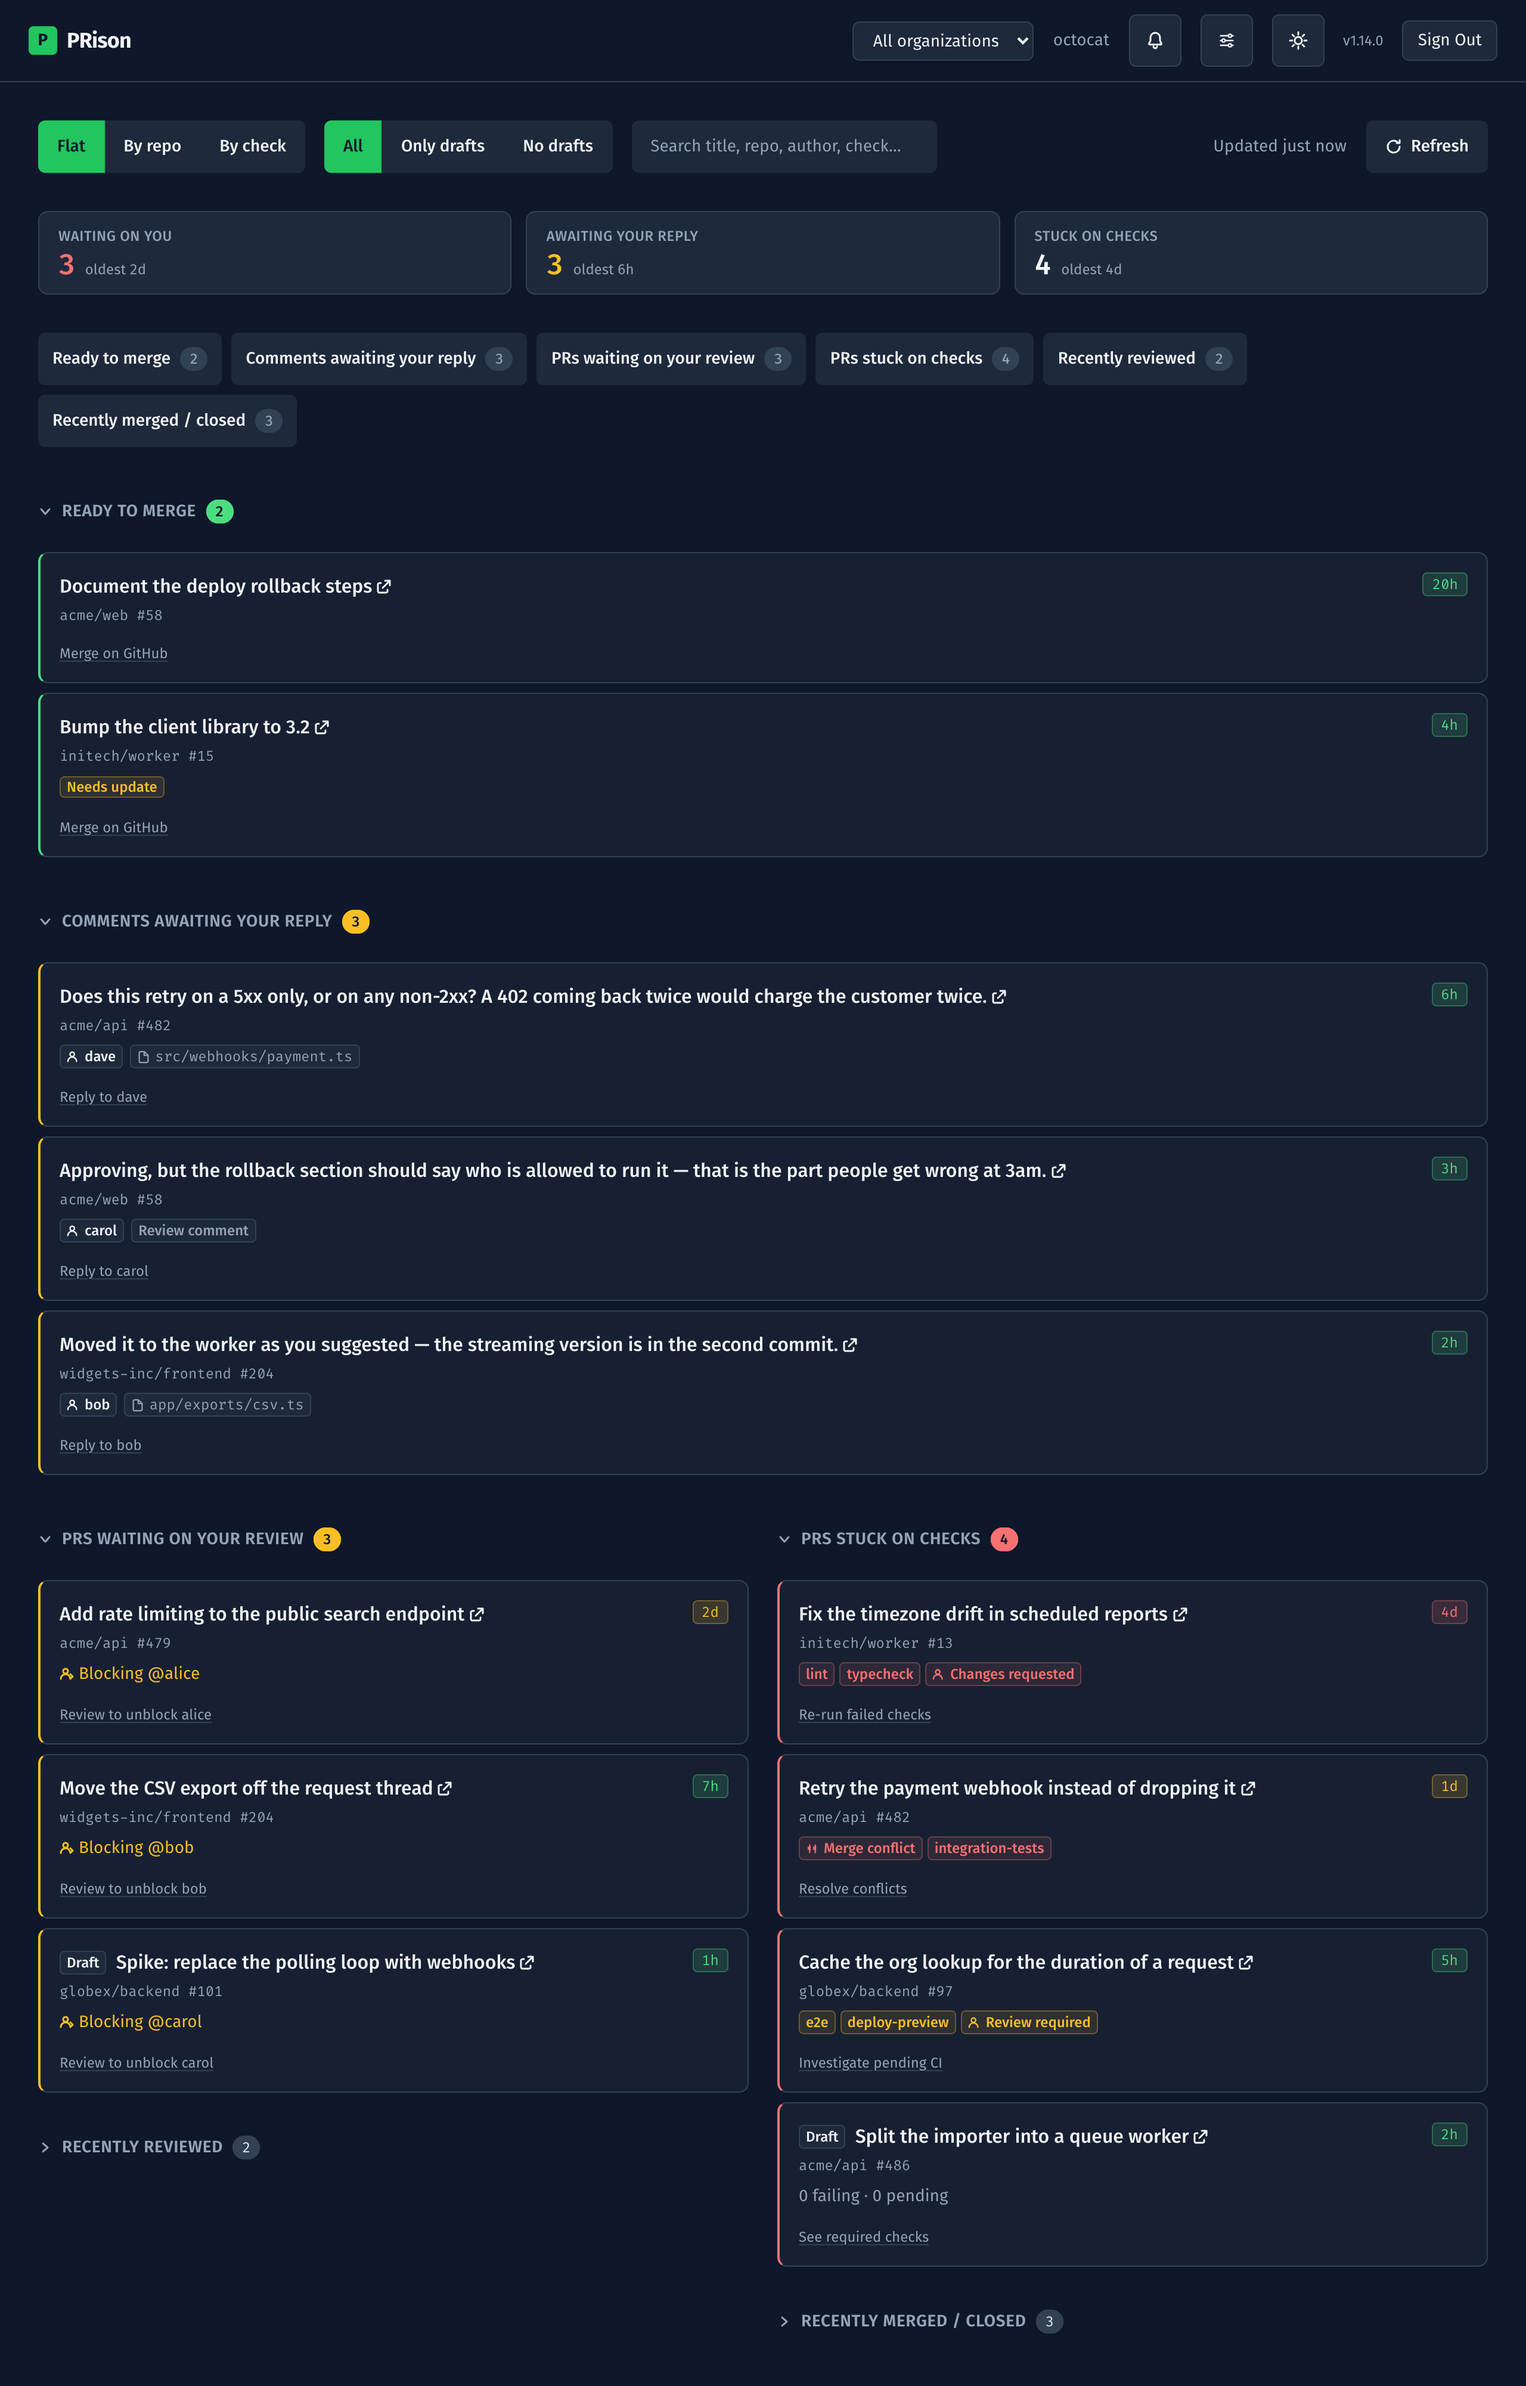
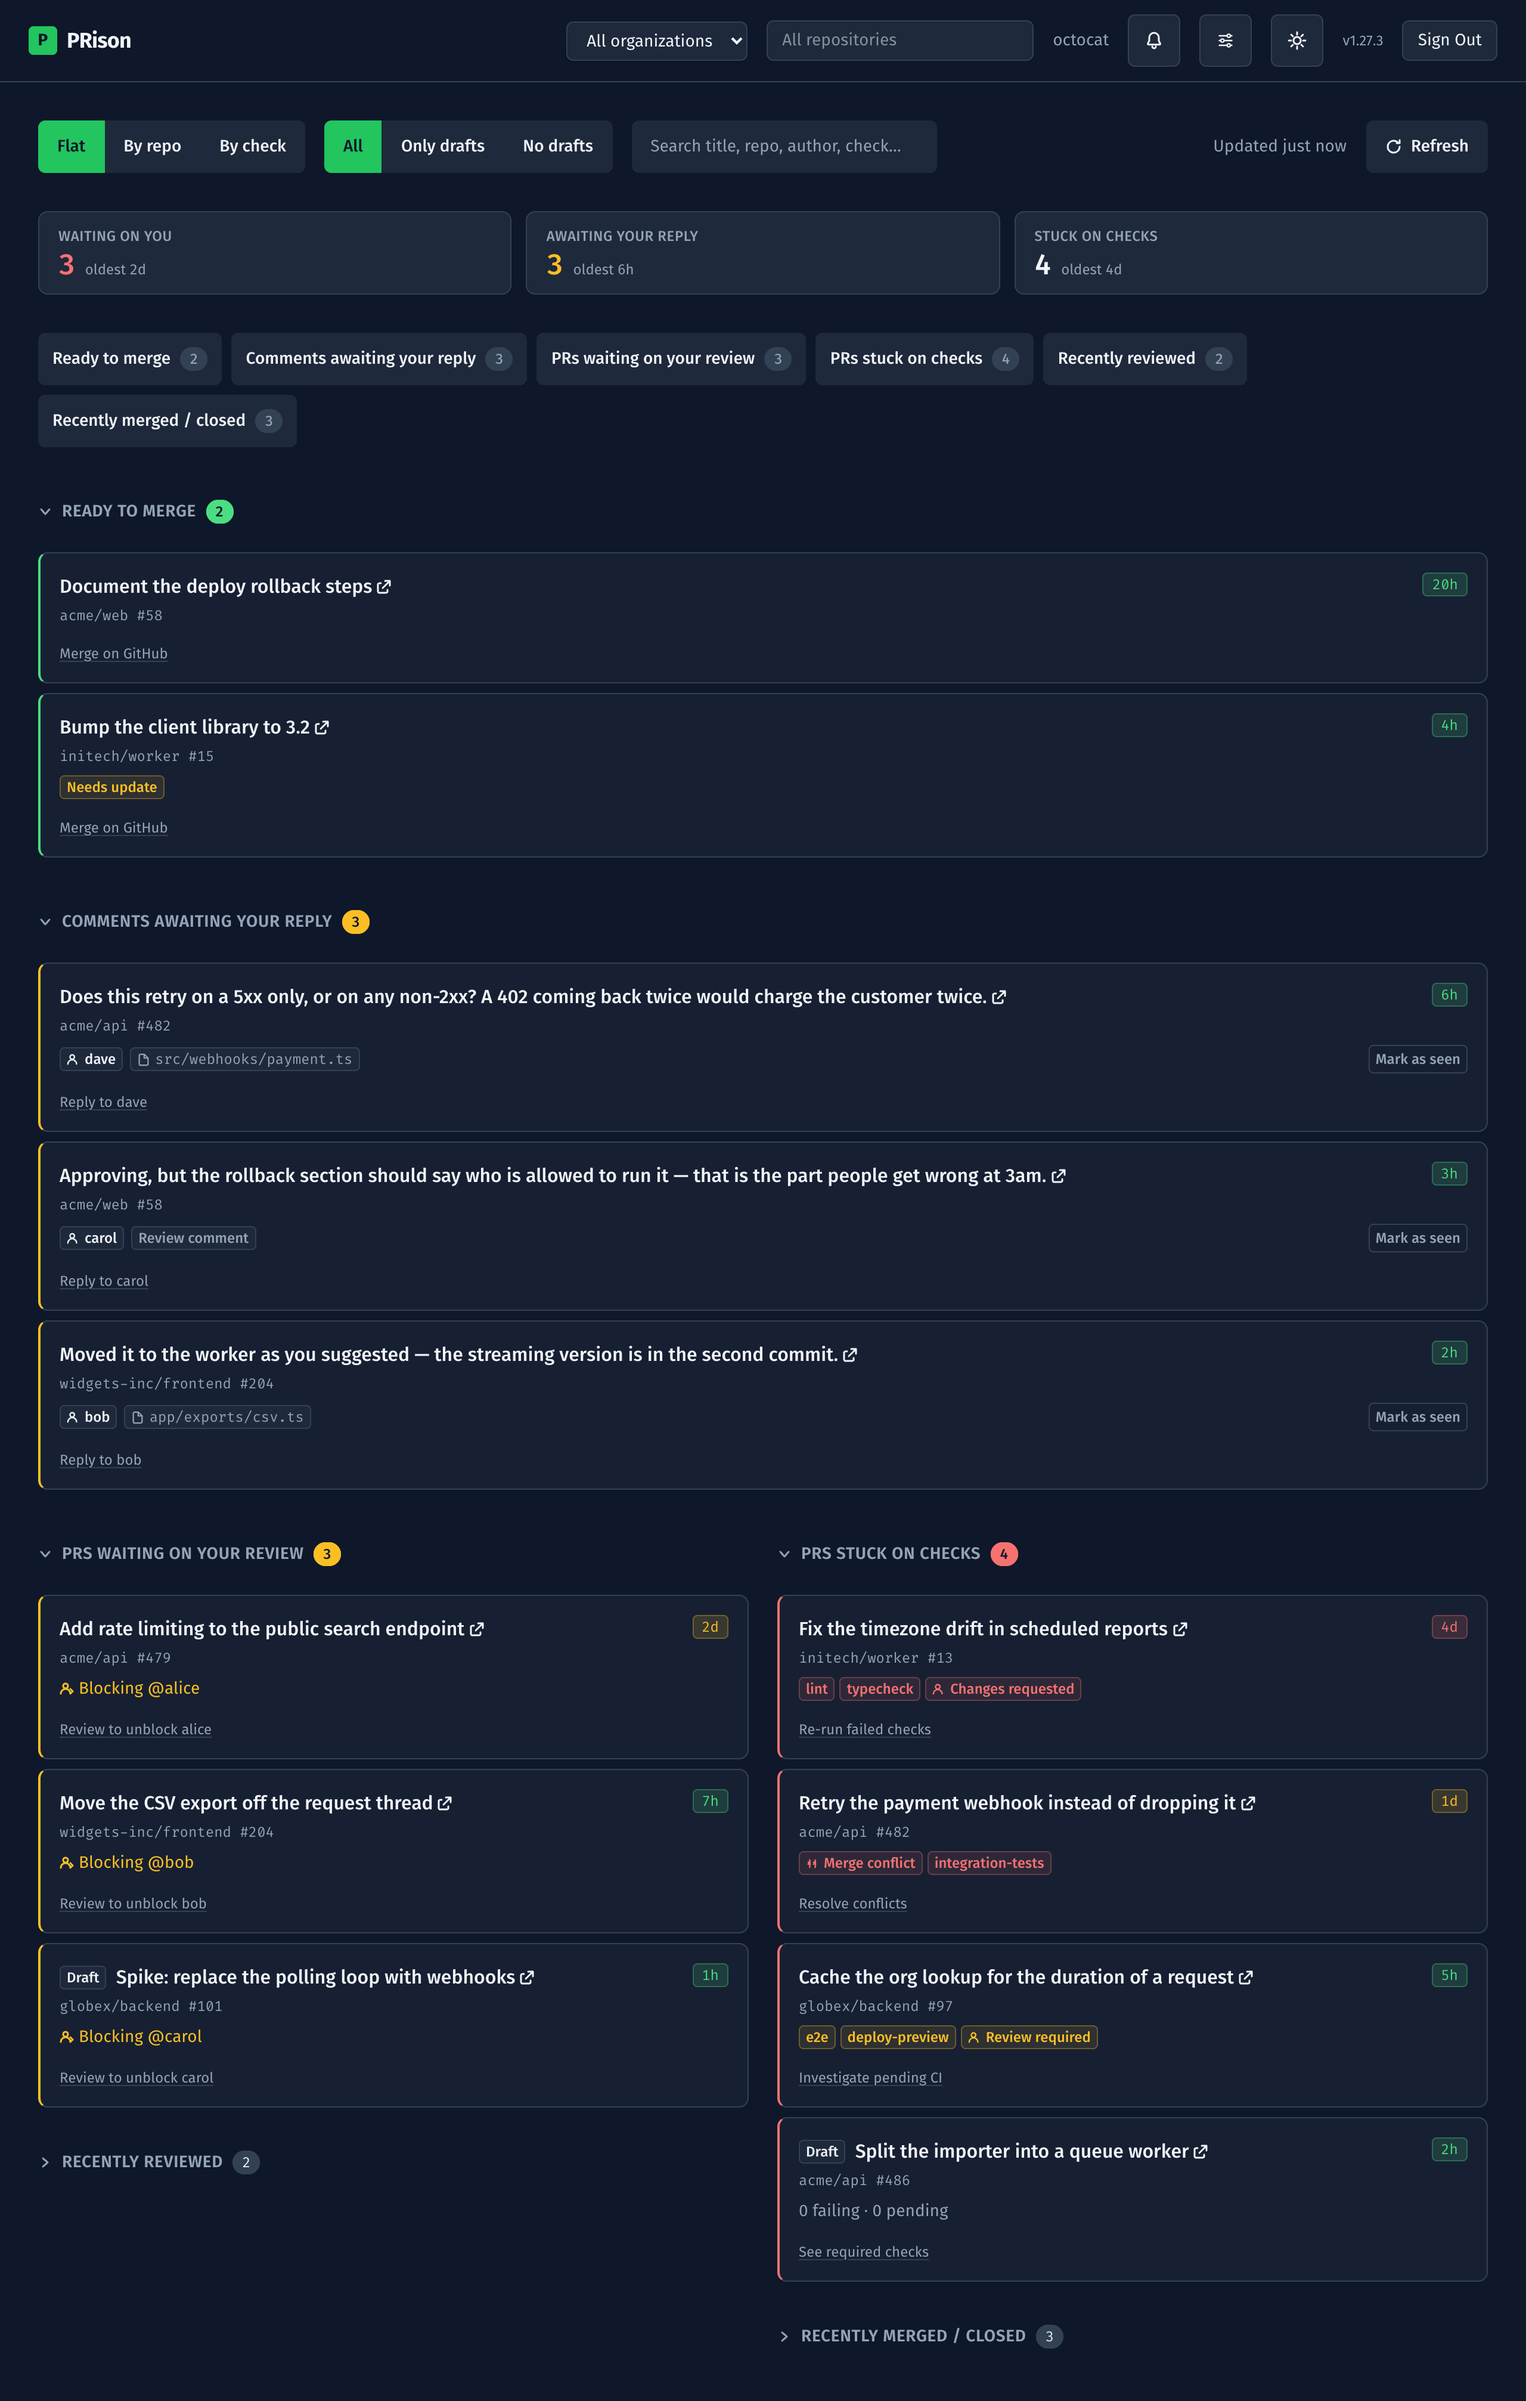
feat: mark a comment awaiting your reply as seen (#108)
* feat: mark a comment awaiting your reply as seen

A comment could only leave "Comments awaiting your reply" by answering it or
reacting on GitHub. Each row now has a "Mark as seen" button that hides it
locally. The mark is keyed by the comment's commentedAt, so a newer reply on
the thread brings it back. Settings > Comments > "Hide comments I marked as
seen" shows the hidden ones again, each with an undo.

* test: assert a stale seen mark is ignored, not just outvoted

* refactor: make the hide-seen settings props required, like hideReacted

* fix: drop aria-pressed from the seen button, whose label already says its state

---------

diff --git a/components/Dashboard.tsx b/components/Dashboard.tsx
@@ -58,6 +58,7 @@ import {
   readyDespiteIgnored,
   readyFromStuck,
 } from "@/lib/ignored-checks";
+import { isSeen, parseSeen, type SeenComments } from "@/lib/seen-comments";
 import { CheckChip } from "./CheckChip";
 import {
   DEFAULT_POLL_INTERVAL_MS,
@@ -148,6 +149,10 @@ export function Dashboard({ orgs, login }: DashboardProps) {
   // Reacting with an emoji is how the user acknowledges a comment without replying,
   // so reacted threads are hidden by default; client-side to keep the toggle instant.
   const [hideReacted, setHideReacted] = useState(true);
+  // The same acknowledgement without leaving a trace on GitHub: marked on the
+  // board, kept in this browser. Hidden by default, like reacted threads.
+  const [seen, setSeen] = useState<SeenComments>({});
+  const [hideSeen, setHideSeen] = useState(true);
   const [groupBy, setGroupBy] = useState<"flat" | "repo" | "check">("flat");
   // Component state, never persisted — the rule the section folds follow: a
   // query that outlived the sitting would hide work tomorrow morning with no
@@ -486,6 +491,8 @@ export function Dashboard({ orgs, login }: DashboardProps) {
     const storedShowBots = localStorage.getItem("prison.showBots");
     const storedUpdateChecks = localStorage.getItem("prison.updateChecks");
     const storedHideReacted = localStorage.getItem("prison.hideReacted");
+    const storedSeen = localStorage.getItem("prison.seenComments");
+    const storedHideSeen = localStorage.getItem("prison.hideSeen");
     const storedGroupBy = localStorage.getItem("prison.groupBy");
     const storedAutoRefresh = localStorage.getItem("prison.autoRefresh");
     const storedPollInterval = localStorage.getItem("prison.pollInterval");
@@ -531,6 +538,10 @@ export function Dashboard({ orgs, login }: DashboardProps) {
       if (storedHideReacted === "false") {
         setHideReacted(false);
       }
+      if (storedHideSeen === "false") {
+        setHideSeen(false);
+      }
+      setSeen(parseSeen(storedSeen));
       if (storedGroupBy === "repo" || storedGroupBy === "check") {
         setGroupBy(storedGroupBy);
       }
@@ -577,6 +588,16 @@ export function Dashboard({ orgs, login }: DashboardProps) {
     if (!hydrated) return;
     localStorage.setItem("prison.hideReacted", String(hideReacted));
   }, [hideReacted, hydrated]);
+
+  useEffect(() => {
+    if (!hydrated) return;
+    localStorage.setItem("prison.hideSeen", String(hideSeen));
+  }, [hideSeen, hydrated]);
+
+  useEffect(() => {
+    if (!hydrated) return;
+    localStorage.setItem("prison.seenComments", JSON.stringify(seen));
+  }, [seen, hydrated]);
 
   useEffect(() => {
     if (!hydrated) return;
@@ -883,7 +904,8 @@ export function Dashboard({ orgs, login }: DashboardProps) {
         // filtered the PR out.
         (c.viewerStarted || visiblePrIds.has(c.prId)) &&
         (showBots || !c.isBot) &&
-        !(hideReacted && c.viewerReacted),
+        !(hideReacted && c.viewerReacted) &&
+        !(hideSeen && isSeen(c, seen)),
     ),
     (c) => c.commentedAt,
   );
@@ -1098,6 +1120,8 @@ export function Dashboard({ orgs, login }: DashboardProps) {
         onShowBotsChange={setShowBots}
         hideReacted={hideReacted}
         onHideReactedChange={setHideReacted}
+        hideSeen={hideSeen}
+        onHideSeenChange={setHideSeen}
         autoRefresh={autoRefresh}
         onAutoRefreshChange={handleAutoRefreshChange}
         pollInterval={pollInterval}
@@ -1465,6 +1489,20 @@ export function Dashboard({ orgs, login }: DashboardProps) {
                         {c.path}
                       </span>
                     )}
+                    <button
+                      type="button"
+                      onClick={() =>
+                        setSeen((prev) => {
+                          const next = { ...prev };
+                          if (isSeen(c, prev)) delete next[c.id];
+                          else next[c.id] = c.commentedAt;
+                          return next;
+                        })
+                      }
+                      className="ml-auto inline-flex min-h-[24px] cursor-pointer items-center rounded px-1.5 py-0.5 text-xs font-medium text-muted ring-1 ring-inset ring-border transition-colors hover:text-accent focus:outline-none focus-visible:ring-2 focus-visible:ring-accent"
+                    >
+                      {isSeen(c, seen) ? "Seen ✓ — undo" : "Mark as seen"}
+                    </button>
                   </span>
                 }
               />

diff --git a/components/Dashboard.test.tsx b/components/Dashboard.test.tsx
@@ -3086,6 +3086,50 @@ describe("Dashboard — comments awaiting your reply", () => {
     ).toBeInTheDocument();
   });
 
+  it("hides a comment marked as seen, keeps the mark, and reveals it for undo when the toggle is unchecked", async () => {
+    global.fetch = fetchWithComments([COMMENT]);
+    render(<Dashboard orgs={ORGS} login="testuser" />);
+    expect(
+      await screen.findByText("please fix the null check"),
+    ).toBeInTheDocument();
+
+    fireEvent.click(screen.getByRole("button", { name: "Mark as seen" }));
+    expect(
+      await screen.findByText(/no comments awaiting your reply/i),
+    ).toBeInTheDocument();
+    await waitFor(() =>
+      expect(
+        JSON.parse(localStorage.getItem("prison.seenComments") ?? "{}"),
+      ).toEqual({ t1: COMMENT.commentedAt }),
+    );
+
+    openSettings();
+    fireEvent.click(screen.getByLabelText(/hide comments i marked as seen/i));
+    expect(
+      await screen.findByText("please fix the null check"),
+    ).toBeInTheDocument();
+    fireEvent.click(screen.getByRole("button", { name: "Seen ✓ — undo" }));
+    await waitFor(() =>
+      expect(localStorage.getItem("prison.seenComments")).toBe("{}"),
+    );
+  });
+
+  it("brings a seen comment back once a newer reply lands on the thread", async () => {
+    localStorage.setItem(
+      "prison.seenComments",
+      JSON.stringify({ t1: "2026-06-01T00:00:00Z" }),
+    );
+    global.fetch = fetchWithComments([COMMENT]);
+    render(<Dashboard orgs={ORGS} login="testuser" />);
+    expect(
+      await screen.findByText("please fix the null check"),
+    ).toBeInTheDocument();
+    // The stale mark is ignored, not merely outvoted by a disabled filter.
+    expect(
+      screen.getByRole("button", { name: "Mark as seen" }),
+    ).toBeInTheDocument();
+  });
+
   it("shows an error banner and retry when the comments fetch fails, without breaking the other lists", async () => {
     global.fetch = vi.fn((url: string) =>
       url.includes("pr-comments")

diff --git a/lib/seen-comments.ts b/lib/seen-comments.ts
@@ -1,0 +1,30 @@
+import type { PrComment } from "./types";
+
+/** Comments the user marked as seen on the board, as comment id → the
+ * commentedAt it was marked at. Keyed by the timestamp, not just the id, so a
+ * new reply on the thread moves commentedAt and brings the comment back — a
+ * mark answers for what the user saw, never for what came after it.
+ *
+ * shortcut: ids of threads that left the list are never pruned; prune against
+ * a complete (non-X-Incomplete) load if the stored map ever grows noticeable. */
+export type SeenComments = Record<string, string>;
+
+export function isSeen(c: Pick<PrComment, "id" | "commentedAt">, seen: SeenComments): boolean {
+  return seen[c.id] === c.commentedAt;
+}
+
+/** Safe JSON.parse from localStorage — same contract as parseIgnored: never
+ * throws, drops anything that is not an id → timestamp string pair. */
+export function parseSeen(raw: string | null): SeenComments {
+  if (raw === null) return {};
+  let parsed: unknown;
+  try {
+    parsed = JSON.parse(raw);
+  } catch {
+    return {};
+  }
+  if (typeof parsed !== "object" || parsed === null || Array.isArray(parsed)) return {};
+  return Object.fromEntries(
+    Object.entries(parsed).filter((e): e is [string, string] => typeof e[1] === "string"),
+  );
+}

diff --git a/lib/seen-comments.test.ts b/lib/seen-comments.test.ts
@@ -1,0 +1,29 @@
+import { describe, it, expect } from "vitest";
+import { isSeen, parseSeen } from "./seen-comments";
+
+describe("isSeen", () => {
+  const seen = { t1: "2026-11-01T10:00:00Z" };
+
+  it("holds while the thread is where it was marked", () => {
+    expect(isSeen({ id: "t1", commentedAt: "2026-11-01T10:00:00Z" }, seen)).toBe(true);
+  });
+
+  // A new reply moves commentedAt — the mark must not swallow it.
+  it("lets go once a newer comment lands", () => {
+    expect(isSeen({ id: "t1", commentedAt: "2026-11-02T10:00:00Z" }, seen)).toBe(false);
+  });
+
+  it("is false for an unmarked thread", () => {
+    expect(isSeen({ id: "t2", commentedAt: "2026-11-01T10:00:00Z" }, seen)).toBe(false);
+  });
+});
+
+describe("parseSeen", () => {
+  it.each([null, "not json", "[]", "null", "42"])("returns {} for %s", (raw) => {
+    expect(parseSeen(raw)).toEqual({});
+  });
+
+  it("keeps string entries and drops the rest", () => {
+    expect(parseSeen(JSON.stringify({ a: "x", b: 1, c: null }))).toEqual({ a: "x" });
+  });
+});

diff --git a/components/SettingsModal.tsx b/components/SettingsModal.tsx
@@ -48,6 +48,8 @@ export interface SettingsModalProps {
   onShowBotsChange: (v: boolean) => void;
   hideReacted: boolean;
   onHideReactedChange: (v: boolean) => void;
+  hideSeen: boolean;
+  onHideSeenChange: (v: boolean) => void;
   autoRefresh: boolean;
   onAutoRefreshChange: (v: boolean) => void;
   pollInterval: number;
@@ -595,6 +597,8 @@ export function SettingsModal({
   onShowBotsChange,
   hideReacted,
   onHideReactedChange,
+  hideSeen,
+  onHideSeenChange,
   autoRefresh,
   onAutoRefreshChange,
   pollInterval,
@@ -915,6 +919,12 @@ export function SettingsModal({
                   onChange={onHideReactedChange}
                 >
                   Hide comments I reacted to
+                </SettingCheckbox>
+                <SettingCheckbox
+                  checked={hideSeen}
+                  onChange={onHideSeenChange}
+                >
+                  Hide comments I marked as seen
                 </SettingCheckbox>
               </div>
             )}

diff --git a/components/SettingsModal.test.tsx b/components/SettingsModal.test.tsx
@@ -16,6 +16,8 @@ const filterProps = {
   onShowBotsChange: vi.fn(),
   hideReacted: true,
   onHideReactedChange: vi.fn(),
+  hideSeen: true,
+  onHideSeenChange: vi.fn(),
   autoRefresh: false,
   onAutoRefreshChange: vi.fn(),
   pollInterval: DEFAULT_POLL_INTERVAL_MS,
@@ -603,6 +605,13 @@ describe("SettingsModal", () => {
       "Hide comments I reacted to",
       "hideReacted",
       "onHideReactedChange",
+      true,
+      "Comments",
+    ],
+    [
+      "Hide comments I marked as seen",
+      "hideSeen",
+      "onHideSeenChange",
       true,
       "Comments",
     ],
